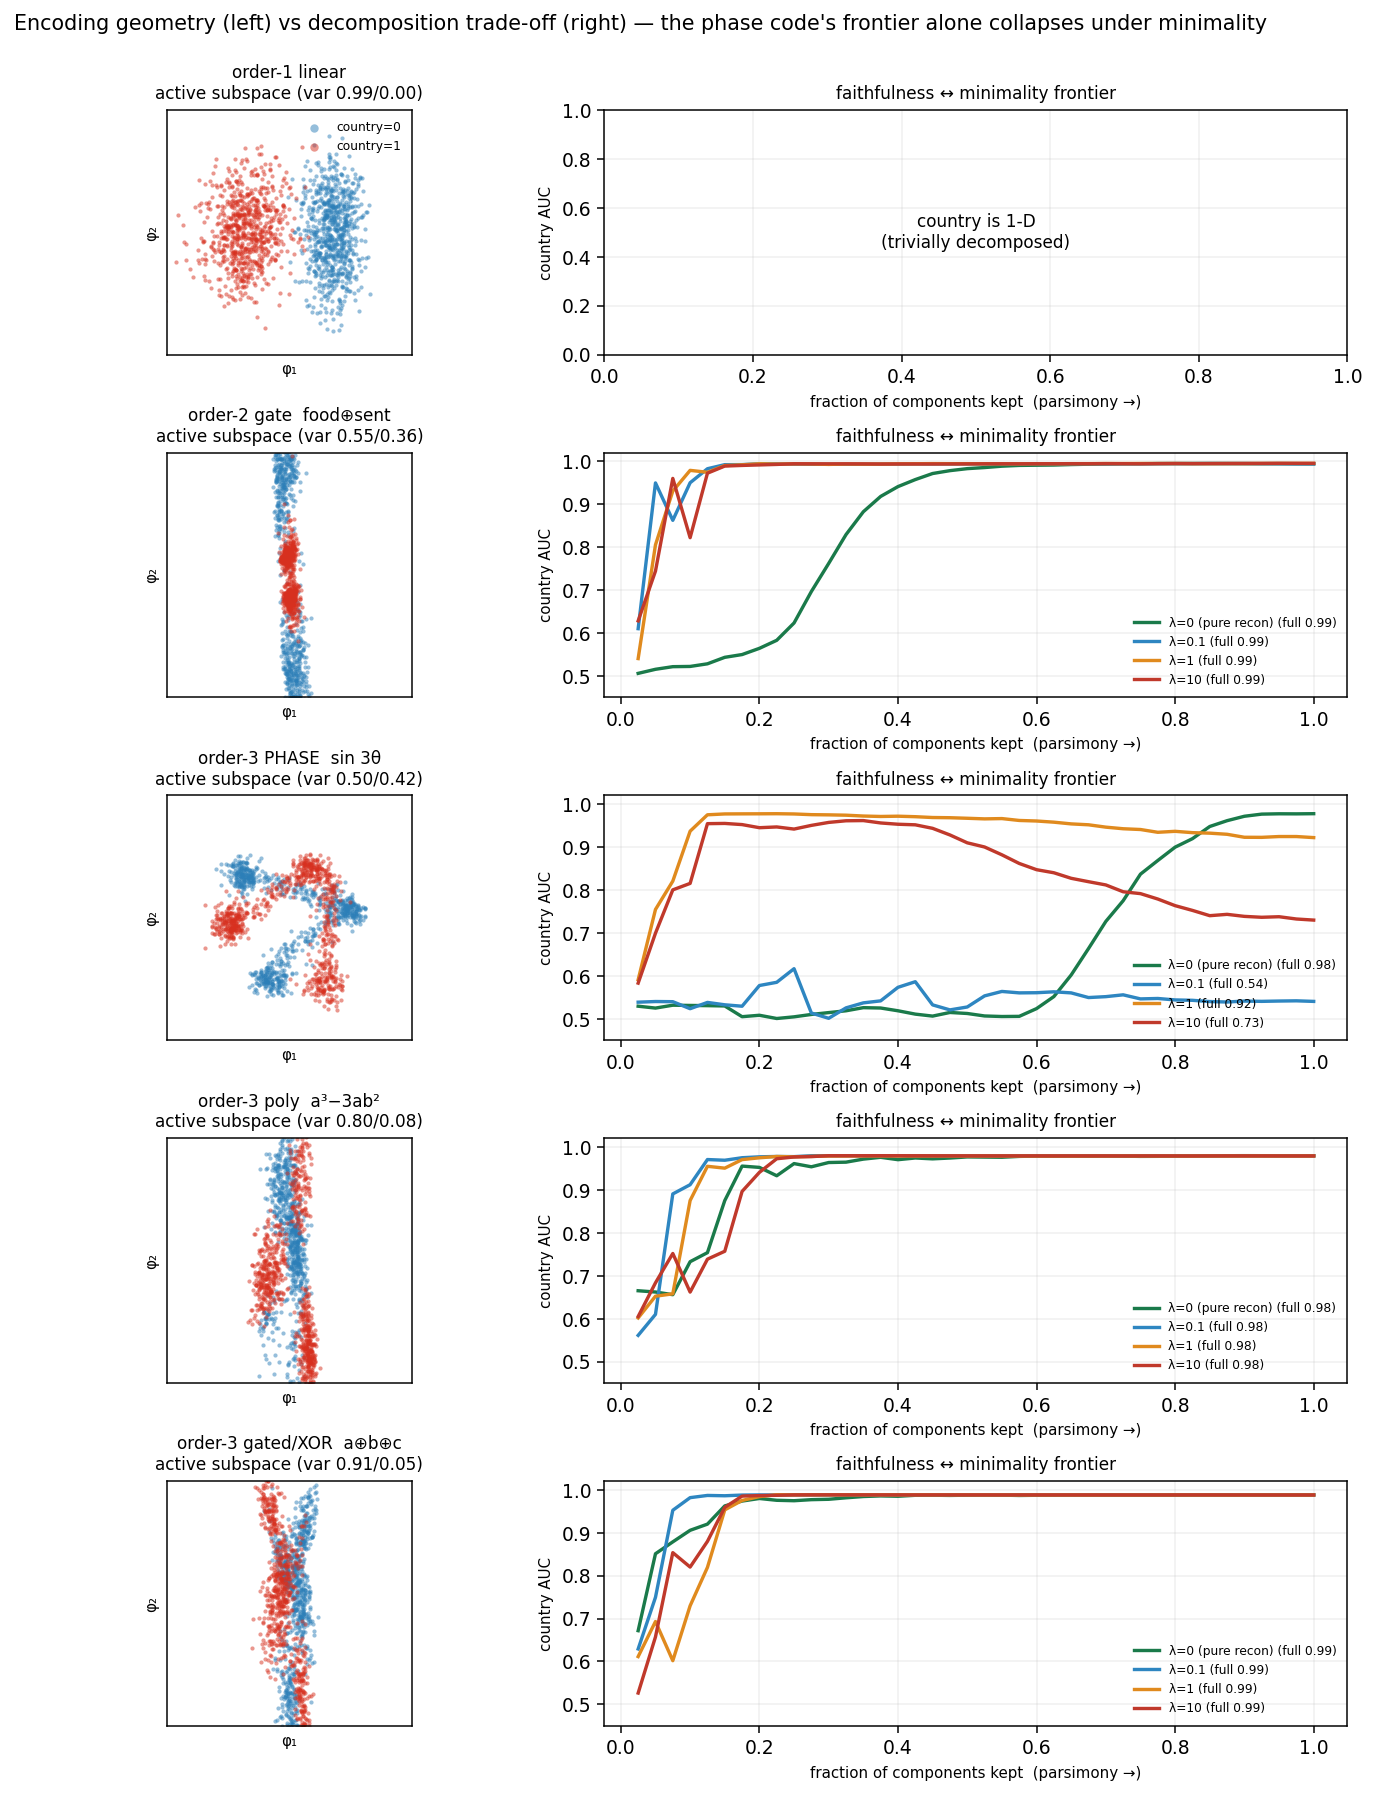
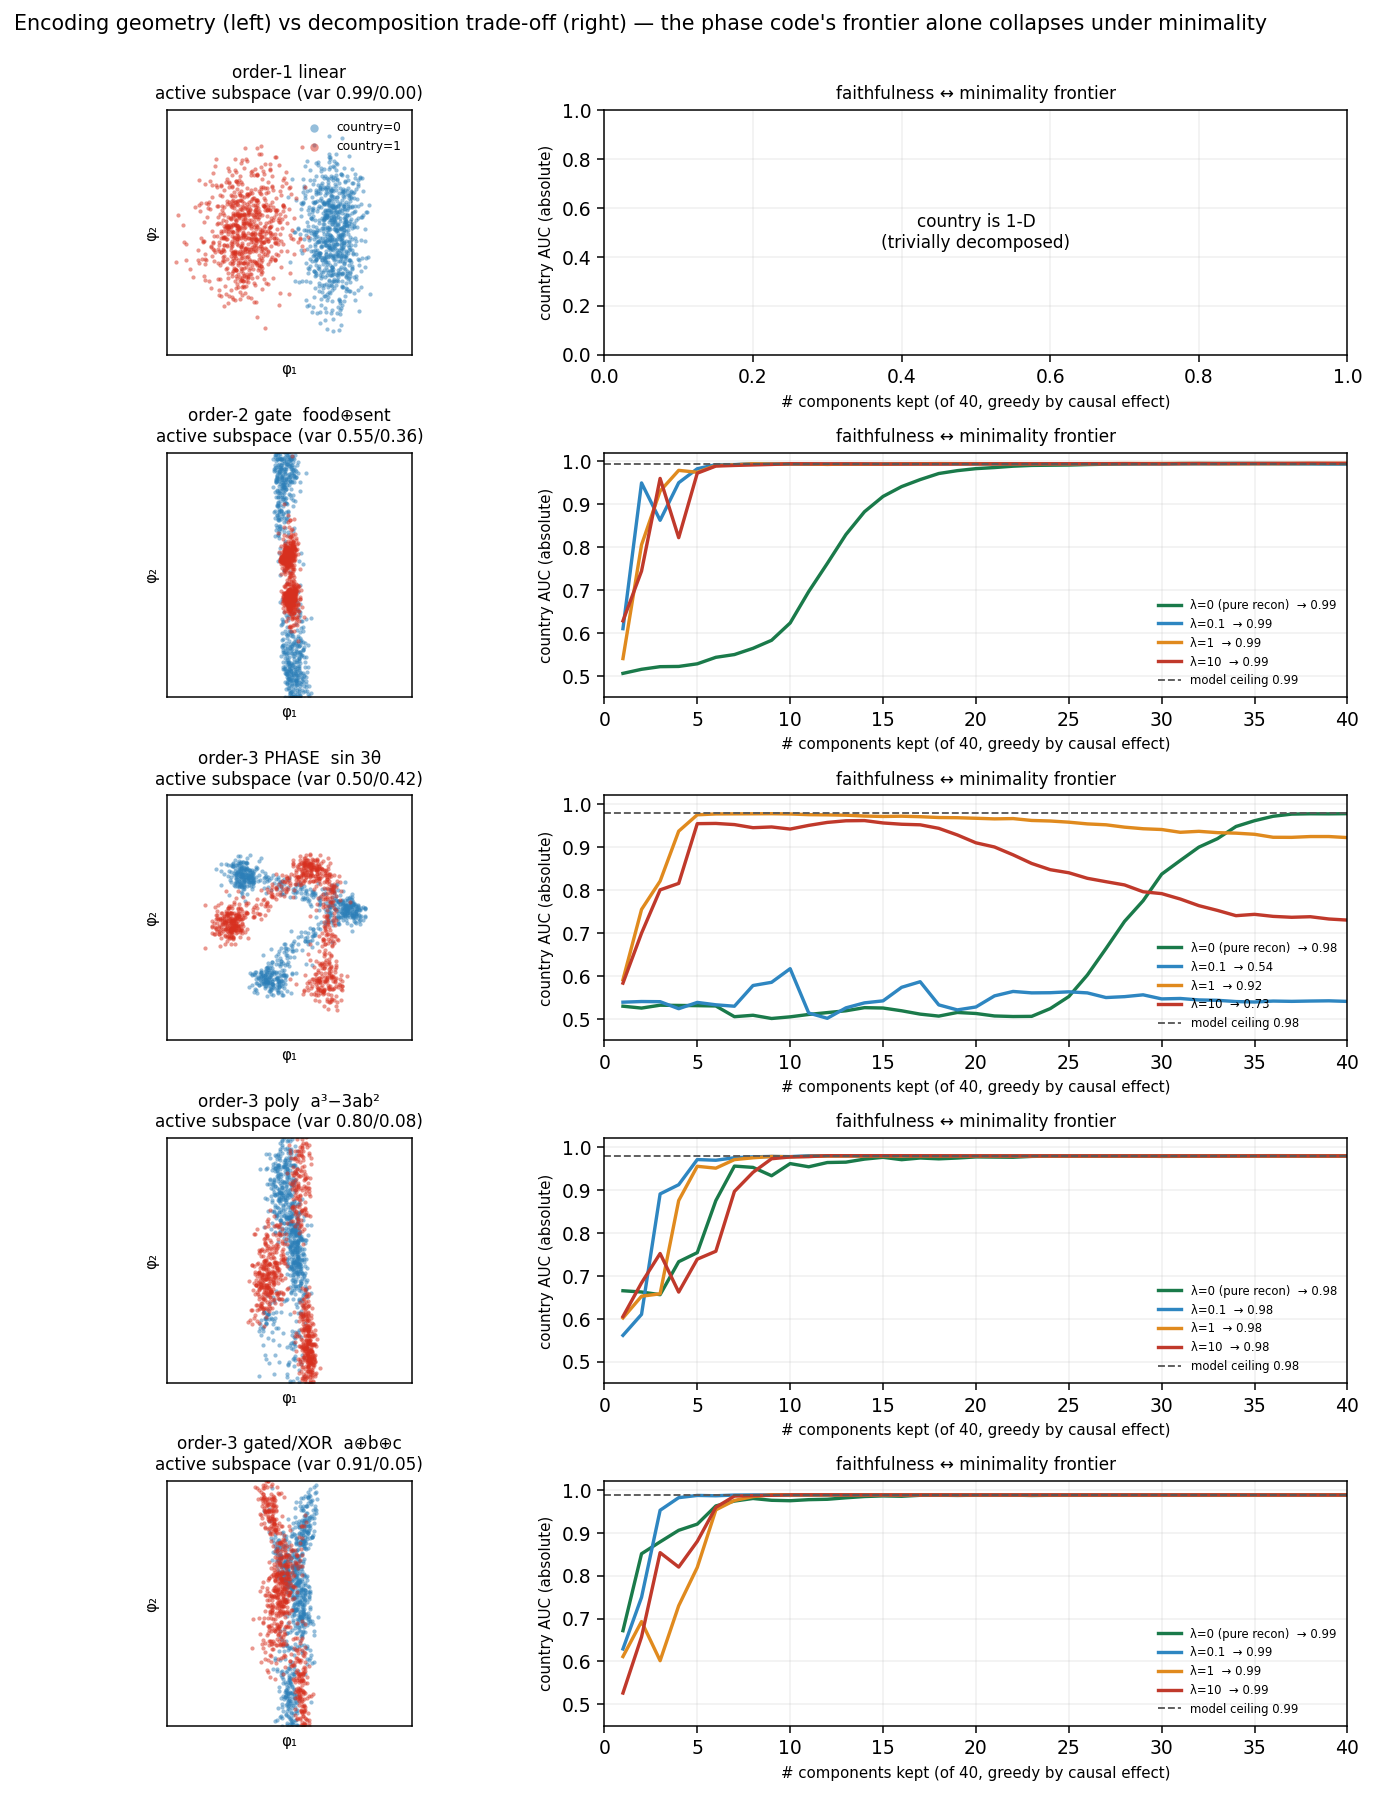
Pareto figures: absolute axes + model-ceiling line (not normalized)
- y stays absolute country AUC (curves end at full-model AUC, not 1.0); add dashed
  model-ceiling line (target country AUC) so phase's true ceiling 0.98 is unambiguous
  and the minimality-collapsed contours (0.54/0.73/0.92) read clearly as collapse, not ceiling
- x: absolute # components (of 40), not the fraction (e8 + e10) -- all runs are C=40
- README Visual-summary wording synced

diff --git a/experiments/e10_geometry_pareto_figure.py b/experiments/e10_geometry_pareto_figure.py
@@ -23,8 +23,8 @@ def curve(code, sc):
     for p in S.glob(f"{code}_C40_st10000_lr0.001_sd0_*_sc{sc}_tk{tk}_*_co.json"):
         d = json.loads(p.read_text())
         if "recon_curve" in d:
-            return np.array(d["recon_curve"]), d["country_auc_spd"]
-    return None, None
+            return np.array(d["recon_curve"]), d["country_auc_spd"], d["country_auc_target"]
+    return None, None, None
 
 
 def main():
@@ -47,22 +47,24 @@ def main():
             axg.set_xticks([]); axg.set_yticks([])
             axg.set_aspect("equal"); axg.set_xlim(-lim, lim); axg.set_ylim(-lim, lim)
             if r == 0: axg.legend(fontsize=6.5, markerscale=2, loc="upper right")
-        # RIGHT: Pareto contours
-        any_c = False
+        # RIGHT: Pareto contours (absolute country AUC vs # components — NOT normalized)
+        any_c = False; ceil = None; ncomp = 40
         for sc, slab, col in LAMBDAS:
-            c, full = curve(code, sc)
+            c, full, tgt = curve(code, sc)
             if c is None: continue
-            any_c = True
-            k = np.arange(1, len(c) + 1) / len(c)
-            axp.plot(k, c, "-", color=col, lw=1.8, label=f"{slab} (full {full:.2f})")
+            any_c = True; ceil = tgt; ncomp = len(c)
+            axp.plot(np.arange(1, len(c) + 1), c, "-", color=col, lw=1.8,
+                     label=f"{slab}  → {full:.2f}")
         if any_c:
-            axp.set_ylim(0.45, 1.02); axp.legend(fontsize=6.5, loc="lower right")
+            axp.axhline(ceil, ls="--", color="0.35", lw=1.0, label=f"model ceiling {ceil:.2f}")
+            axp.set_ylim(0.45, 1.02); axp.set_xlim(0, ncomp)
+            axp.legend(fontsize=6.2, loc="lower right")
         else:
             axp.text(0.5, 0.5, "country is 1-D\n(trivially decomposed)", ha="center", va="center",
                      fontsize=9, transform=axp.transAxes)
         axp.set_title("faithfulness ↔ minimality frontier", fontsize=9)
-        axp.set_xlabel("fraction of components kept  (parsimony →)", fontsize=8)
-        axp.set_ylabel("country AUC", fontsize=8); axp.grid(alpha=0.2)
+        axp.set_xlabel("# components kept (of 40, greedy by causal effect)", fontsize=8)
+        axp.set_ylabel("country AUC (absolute)", fontsize=8); axp.grid(alpha=0.2)
     fig.suptitle("Encoding geometry (left) vs decomposition trade-off (right) — the phase code's "
                  "frontier alone collapses under minimality", fontsize=11)
     fig.tight_layout(rect=[0, 0, 1, 0.985])

diff --git a/experiments/e8_pareto_figure.py b/experiments/e8_pareto_figure.py
@@ -46,12 +46,12 @@ def main():
         area = d.get("pareto_area", float(np.mean(full - curve) / (full + 1e-9)))
         rr = d["recon_rel"]; iso = d.get("recon_k95_isolated")
         rows.append((m, lab, d["country_auc_spd"], rr, d["recon_k95"], iso, area))
-        ax.plot(k / len(curve), curve, "-", color=col, lw=2,
+        ax.plot(k, curve, "-", color=col, lw=2,
                 label=f"{lab}  area={area:.2f}, recon_rel={rr:.3f}")
-        ax.fill_between(k / len(curve), curve, full, color=col, alpha=0.10)
+        ax.fill_between(k, curve, full, color=col, alpha=0.10)
     for m, lab, fa, rr, r95, iso, area in sorted(rows, key=lambda r: -r[6]):
         print(f"{lab:<28}{fa:>9.3f}{rr:>10.3f}{r95:>9}{str(iso):>7}{area:>8.3f}")
-    ax.set_xlabel("fraction of components kept  (greedy, by causal country effect →)")
+    ax.set_xlabel("# components kept (of 40, greedy by causal country effect)")
     ax.set_ylabel("country AUC reached")
     ax.set_title("Reconstruction-spread frontier per code (pure-reconstruction factorization)\n"
                  "shaded = area below own ceiling.  NOTE: not at matched faithfulness — see recon_rel.")

diff --git a/README.md b/README.md
@@ -63,7 +63,8 @@ Per encoding: **left** = the country active subspace (project `L` onto the top-2
 eigenvectors of the country-logit gradient covariance, colored by country) — the phase
 code shows the **pinwheel sectors** of `sign(sin 3θ)`, while linear is a 1-D split and the
 others show gated/cubic/parity structure. **Right** = the faithfulness↔minimality frontier
-(country AUC vs fraction of components kept), one contour per Schatten "simplicity" level.
+(absolute country AUC vs number of components kept; dashed line = the model's own country
+AUC ceiling), one contour per Schatten "simplicity" level.
 Only the **phase** frontier collapses under minimality pressure (full-model country AUC
 drops to 0.54–0.92, and erratically — its seed/optimization fragility); gate/poly/xor stay
 faithful (0.98–0.99) at *every* simplicity level. (`experiments/e9_geometry.py`,